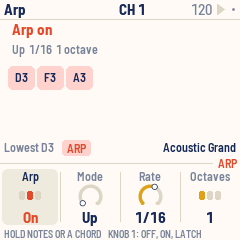
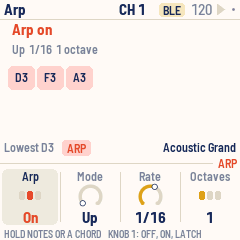
Manual: Bluetooth MIDI (connecting, the Setup page, after a crash), MPL-2.0 and fm1-base in the credits; screenshots with Bluetooth

Changed region(s): [[0.6417, 0.0, 0.7875, 0.0875]]

diff --git a/tools/gen_manual_figures.py b/tools/gen_manual_figures.py
@@ -1,5 +1,6 @@
 #!/usr/bin/env python3
-# SPDX-License-Identifier: GPL-3.0-only
+# SPDX-License-Identifier: MPL-2.0
+# Copyright (C) 2026 Charles Vestal
 """The manual's map of the controls, drawn (no photographs: M-VAVE's and Felucca's are not ours to use):
 
   docs/img/fm1-panel.svg   the FM-1 front panel, CTL-1's real screen in it, each control labelled with

diff --git a/docs/MANUAL.md b/docs/MANUAL.md
@@ -2,8 +2,8 @@
 
 CTL-1 turns the M-VAVE FM-1 into a MIDI controller. The keys play notes, in any scale with its chords
 under the black keys; the knobs send controllers in four banks; an arpeggiator and a four-track
-Euclidean drum sequencer run on its clock. Everything goes out over USB, MIDI from the TRS jack is passed
-along, and the FM-1 plays it all on its own General MIDI sounds too, so it works with nothing connected.
+Euclidean drum sequencer run on its clock. Everything goes out over USB and Bluetooth, MIDI from the TRS
+jack is passed along, and the FM-1 plays it all on its own General MIDI sounds too, so it works with nothing connected.
 If you like, the keys can also sense how hard you play them, for velocity and aftertouch.
 
 ![A drawing of the FM-1 running CTL-1, each knob, button and key labelled with what it does; section 3, Controls, says the same in words](img/fm1-panel.svg "The FM-1 (a drawing), running CTL-1, each control labelled")
@@ -51,12 +51,12 @@ updater, M-UPGRADE, works too.
 
 <details><summary>Install from the command line</summary>
 
-Download the firmware file (for example `ctl-usb-0.9.fwsc`) from the
+Download the firmware file (`ctl-VERSION.fwsc`) from the
 [releases page](https://github.com/charlesvestal/fm1-ctl/releases), get the CTL-1 source from GitHub,
 install Python 3 with `pip3 install mido python-rtmidi`, and run:
 
 ```
-python3 tools/fm1_install.py ctl-usb-0.9.fwsc
+python3 base/tools/fm1_install.py ctl-VERSION.fwsc
 ```
 
 </details>
@@ -116,7 +116,7 @@ Each page has its own button, and that button lights while you're on the page.
 
 ## 4. The screen
 
-![The Play page on MIDI channel 1: Note E4 100; a chord lit on the keys; USB and TRS (in only); lowest key F3, sound Acoustic Grand; bank A: CC 74 at 52, CC 71 at 70 (highlighted), CC 1 at 0, CC 7 at 100](img/screen-play.png "The Play page: a chord held, KNOB 2 just turned")
+![The Play page on MIDI channel 1: Note E4 100; a chord lit on the keys; USB, Bluetooth (waiting) and TRS (in only); lowest key F3, sound Acoustic Grand; bank A: CC 74 at 52, CC 71 at 70 (highlighted), CC 1 at 0, CC 7 at 100](img/screen-play.png "The Play page: a chord held, KNOB 2 just turned")
 ![SUSTAIN LOCKED across the top, CC 64 = 127 below it, and SUS LOCK beside the lowest key, D3; bank A's four controllers at the bottom](img/screen-sus.png "Sustain locked: ENV tapped twice")
 
 - **Top bar:** the page's name (on Play, the knob bank's letter in a chip), the MIDI channel in the
@@ -159,8 +159,9 @@ the octave before letting go.
 - **Panic:** press REC. It ends every held note and sends sustain off and "all notes off" on the
   keyboard's channel and the sequencer's.
 
-The Play page shows the last message you sent, the keys, and the two ports, each with a light for MIDI
-coming in and, for USB, one for MIDI going out.
+The Play page shows the last message you sent, the keys, and the three ports, each with a light for MIDI
+coming in and, for USB and Bluetooth, one for MIDI going out. Under BLE: "connected" while a computer or
+tablet is connected, "waiting" while none is.
 
 ---
 
@@ -317,9 +318,10 @@ sequencer, the Tempo knob rests, and the screen shows "EXT".
 
 ## 12. Setup
 
-Press EDIT for the Setup page. It also shows the MIDI counted in and out of each port, and the version.
+Press EDIT for the Setup page. It also shows Bluetooth: whether it's advertising or connected, the MIDI
+counted in and out over it, and its latest messages. The version is at the top right.
 
-![The Setup page: MIDI, USB in 0 out 12, TRS in 0; Tempo 112 (highlighted), Clock Int, Seq ch 10, Glow Low](img/screen-setup.png "The Setup page, the tempo just turned")
+![The Setup page: Bluetooth advertising, name FM-1, in 0 out 12, and its log; Tempo 112 (highlighted), Clock Int, Seq ch 10, Glow Low](img/screen-setup.png "The Setup page, the tempo just turned")
 
 | Knob | Sets |
 |---|---|
@@ -367,11 +369,17 @@ The page shows the last note's velocity and the pressure now, so you can see wha
 
 - **USB:** a class-compliant MIDI device, "CTL-1 FM-1": everything CTL-1 plays goes out here, and MIDI
   comes in.
-- **TRS jack:** MIDI in only (the FM-1 has no MIDI out jack). What arrives is passed on to USB.
-- **MIDI in** (from either) lights the keys, drives the clock when it's set to Ext, and plays the FM-1's
+- **Bluetooth:** Bluetooth MIDI, named "FM-1", on from the moment CTL-1 starts. Everything CTL-1 plays goes
+  out here too, and MIDI comes in. What arrives over USB is passed on to Bluetooth, and what arrives over
+  Bluetooth to USB.
+- **TRS jack:** MIDI in only (the FM-1 has no MIDI out jack). What arrives is passed on to USB and Bluetooth.
+- **MIDI in** (from any of them) lights the keys, drives the clock when it's set to Ext, and plays the FM-1's
   sounds unless the Sound page says Ignored.
 
-Bluetooth MIDI comes in a later version.
+**Connecting over Bluetooth:** on a Mac, open Audio MIDI Setup, choose Window > Show MIDI Studio, click
+the Bluetooth button, then Connect next to FM-1. On an iPad or iPhone, connect from a music app's
+Bluetooth MIDI settings (in GarageBand: Settings > Advanced > Bluetooth MIDI Devices). The Play page's
+BLE port says "connected", and the Setup page shows what has passed.
 
 What CTL-1 sends, on the keyboard's channel unless noted:
 
@@ -421,6 +429,10 @@ no sound, but USB works, so the web installer can reach it: reinstall CTL-1, or 
 back from the same page. Press PLAY to try starting CTL-1 normally again. If even safe mode fails
 twice, the FM-1 drops into the chip's own update mode, and only the rescue below can reach it.
 
+**Bluetooth off:** if CTL-1 ever crashes while Bluetooth is running, the next start leaves Bluetooth off
+and says "BLUETOOTH OFF: IT CRASHED". Everything else works. To start it again, hold SAVE on the Setup
+page. It starts by itself again at the next restart.
+
 **The computer shows another name:** a Mac that knew the FM-1 with other firmware may keep the old
 name. Remove the FM-1 in Audio MIDI Setup (Window > Show MIDI Studio) and plug it in again.
 
@@ -433,7 +445,7 @@ have.
 Open Terminal, paste this line and press Return:
 
 ```
-bash -c "$(curl -fsSL https://raw.githubusercontent.com/charlesvestal/fm1-ctl/main/tools/fm1_rescue.sh)"
+bash -c "$(curl -fsSL https://raw.githubusercontent.com/hugelton/felucca-bsp/main/tools/fm1_rescue.sh)"
 ```
 
 1. If a window asks to install the command line developer tools, click Install. When it has finished,
@@ -489,12 +501,15 @@ USB lines) can still reach it.
 
 ## 17. Credits
 
-CTL-1 is free software under the GNU General Public License, version 3. If you share the firmware, you
-must also share its source code.
+CTL-1 is free software under the Mozilla Public License 2.0. If you share a changed version, you must
+also share the source of the files you changed.
 
-- The platform (hardware layer, USB, update loader, installer and storage) is from **Felucca** by Leo
-  Kuroshita, Hügelton Instruments, by way of [X0X](https://charlesvestal.github.io/fm1-x0x/) and
-  [FoMni-1](https://charlesvestal.github.io/fm1-fomni/). The top bar and knob row come from X0X.
+- The platform (hardware layer, USB, update loader, installer and storage) is
+  [fm1-base](https://github.com/charlesvestal/fm1-base) on [felucca-bsp](https://github.com/hugelton/felucca-bsp),
+  from **Felucca** by Leo Kuroshita, Hügelton Instruments, by way of
+  [X0X](https://charlesvestal.github.io/fm1-x0x/) and [FoMni-1](https://charlesvestal.github.io/fm1-fomni/).
+  The top bar and knob row come from X0X.
+- Bluetooth runs on **JieLi's Bluetooth libraries** from the AC79 SDK (Apache-2.0, Zhuhai Jieli Technology).
 - The General MIDI sounds are **Sonivox EAS** and its 200 KB sound set (Apache-2.0, Sonic Network and
   the Android Open Source Project).
 - The Euclidean rhythms are Godfried Toussaint's reading of Bjorklund's algorithm.
